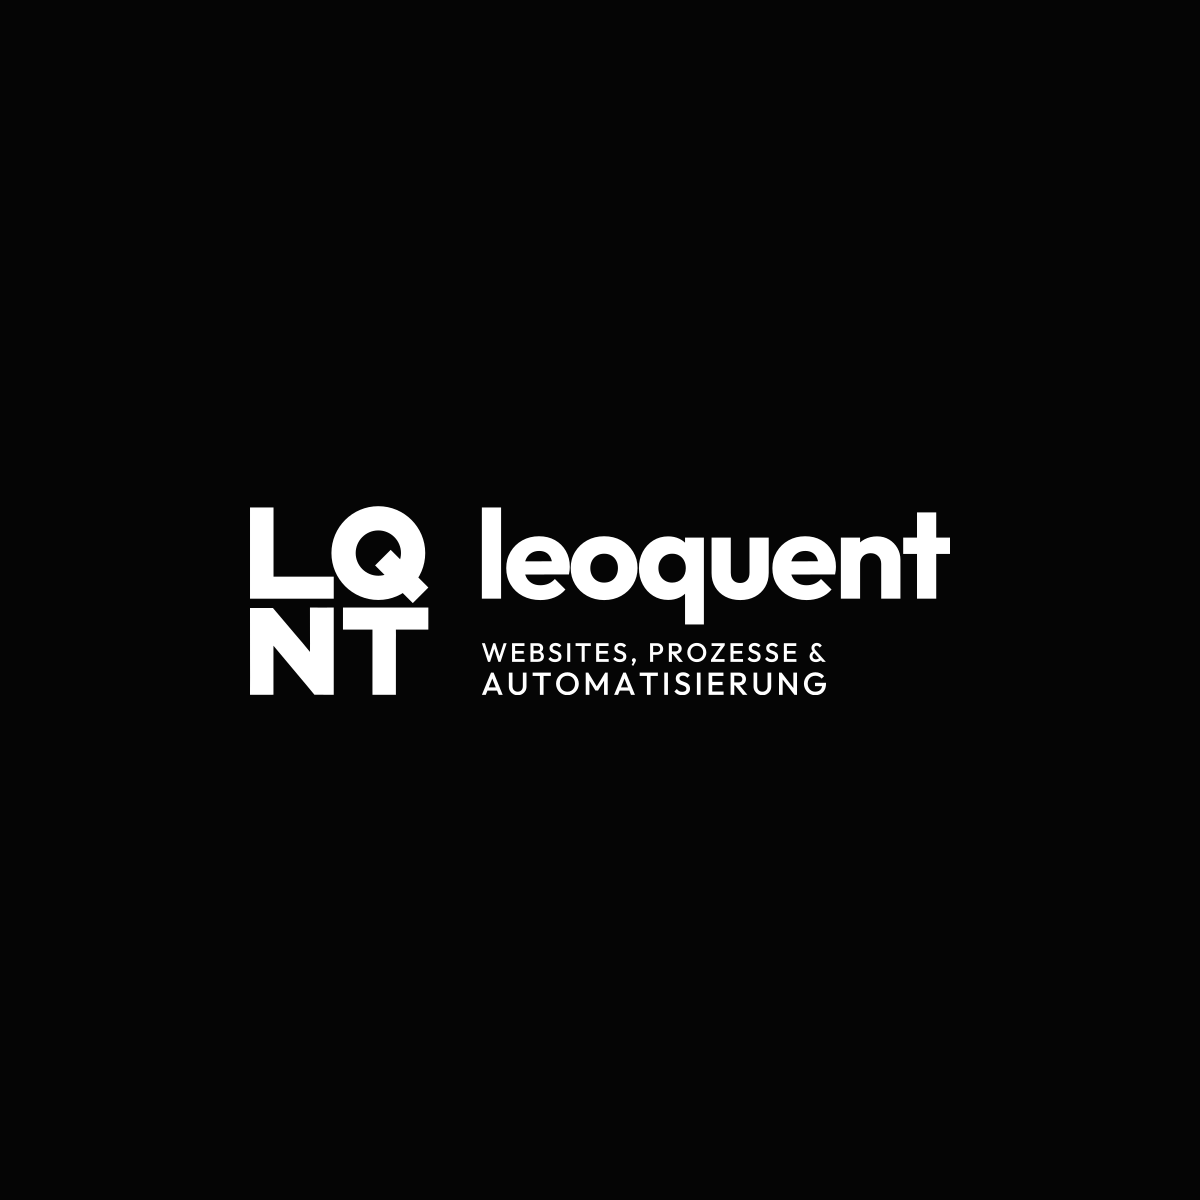
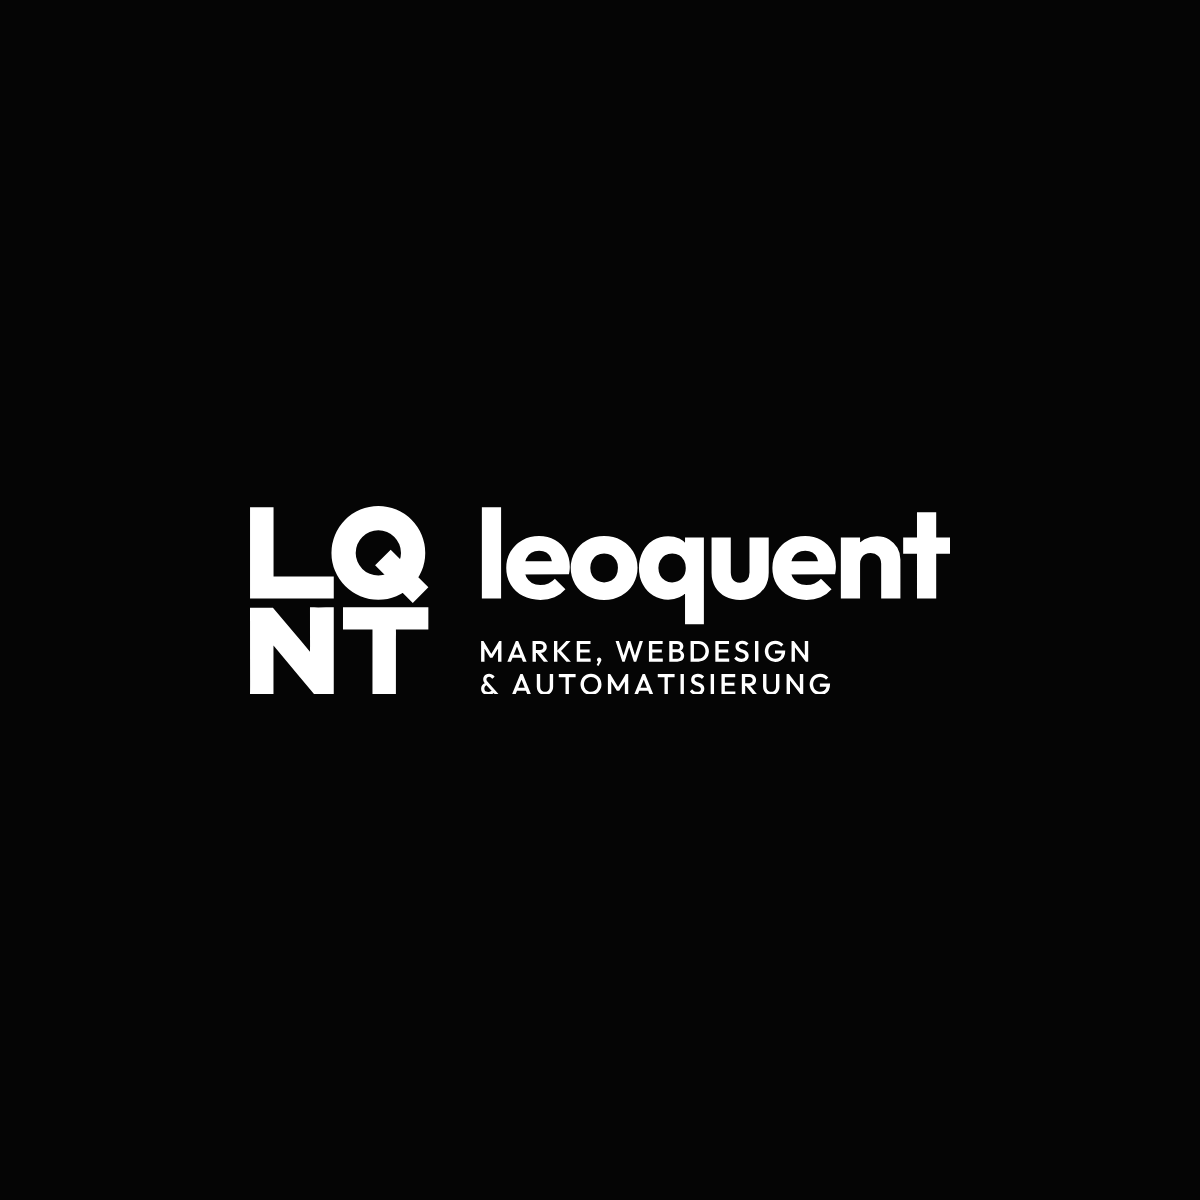
Align brand descriptor and gateway branding label

Changed region(s): [[0.4008, 0.5242, 0.7092, 0.5858]]

diff --git a/app/layout.tsx b/app/layout.tsx
@@ -13,13 +13,13 @@ const basePath = process.env.NEXT_PUBLIC_BASE_PATH || '';
 const ogImageLandscape = `${siteUrl}${basePath}/og-image-1200x630.png`;
 const ogImageSquare = `${siteUrl}${basePath}/og-image-1200x1200.png`;
 
-const title = 'leoquent | Webdesign, Prozesse & Automatisierung';
+const title = 'leoquent | Marke, Webdesign & Automatisierung';
 
 export const metadata: Metadata = {
   metadataBase: new URL(siteUrl),
   title,
     description:
-      'Webdesign mit eigenen Texten und passende Automatisierung: Leonid Ryazanskiy macht Ihr Angebot verständlich und vereinfacht Ihre Abläufe.',
+      'Markenauftritte, Webdesign mit eigenen Texten und passende Automatisierung: Leonid Ryazanskiy macht Ihr Angebot verständlich und vereinfacht Ihre Abläufe.',
     applicationName: 'leoquent',
 
     openGraph: {
@@ -28,27 +28,27 @@ export const metadata: Metadata = {
       siteName: 'leoquent',
       title,
       description:
-        'Webdesign mit eigenen Texten und passende Automatisierung: Leonid Ryazanskiy macht Ihr Angebot verständlich und vereinfacht Ihre Abläufe.',
+        'Markenauftritte, Webdesign mit eigenen Texten und passende Automatisierung: Leonid Ryazanskiy macht Ihr Angebot verständlich und vereinfacht Ihre Abläufe.',
       url: `${siteUrl}${basePath}/`,
     images: [
       {
         url: ogImageLandscape,
         width: 1200,
         height: 630,
-        alt: 'leoquent — Webdesign, Prozesse & Automatisierung',
+        alt: 'leoquent — Marke, Webdesign & Automatisierung',
       },
       {
         url: ogImageSquare,
         width: 1200,
         height: 1200,
-        alt: 'leoquent — Webdesign, Prozesse & Automatisierung',
+        alt: 'leoquent — Marke, Webdesign & Automatisierung',
       },
     ],
   },
   twitter: {
     card: 'summary_large_image',
     title,
-    description: 'Webdesign mit eigenen Texten und passende Automatisierung: Leonid Ryazanskiy macht Ihr Angebot verständlich und vereinfacht Ihre Abläufe.',
+    description: 'Markenauftritte, Webdesign mit eigenen Texten und passende Automatisierung: Leonid Ryazanskiy macht Ihr Angebot verständlich und vereinfacht Ihre Abläufe.',
     images: [ogImageLandscape],
   },
   robots: { index: true, follow: true },

diff --git a/components/Gateway.tsx b/components/Gateway.tsx
@@ -8,7 +8,7 @@ import DirectionArrow from "./DirectionArrow";
 gsap.registerPlugin(useGSAP);
 const base = process.env.NEXT_PUBLIC_BASE_PATH || "";
 const options = [
- {id:"webdesign", label:"Webdesign", title:<>Sichtbar <br/>werden.</>, copy:"Ein Auftritt, der zeigt, was Sie können. Mit klaren Texten, eigenem Charakter und auf Wunsch auch Logo und Markenauftritt.", tags:"Konzept · Text · Marke · Webdesign"},
+ {id:"webdesign", label:"Webdesign & Branding", title:<>Sichtbar <br/>werden.</>, copy:"Ein Auftritt, der zeigt, was Sie können. Mit klaren Texten, eigenem Charakter und auf Wunsch auch Logo und Markenauftritt.", tags:"Konzept · Text · Marke · Webdesign"},
  {id:"prozesse", label:"Prozesse & Automatisierung", title:<>Zeit <br/>gewinnen.</>, copy:"Weniger Handarbeit im Arbeitsalltag. Mit verbundenen Werkzeugen, individuellen Anwendungen und sinnvoll eingesetzter KI.", tags:"Analyse · Software · Automatisierung · KI"}
 ];
 function Illustration({kind}:{kind:string}) {
@@ -39,7 +39,7 @@ export default function Gateway({mode}:{mode:"filmisch"|"interaktiv"}) {
  return <div ref={root} className={`${s.gateway} ${mode==="filmisch"?s.film:s.interactive}`} data-active={active||""}>
   <header className={s.header} data-reveal>
    <a href={`${base}/`} className={s.brand} aria-label="leoquent – Startseite"><LqntMark className={s.mark}/><span>leoquent</span></a>
-   <span className={s.descriptor}>Webdesign, Prozesse &<br/>Automatisierung</span>
+   <span className={s.descriptor}>Marke, Webdesign<br/>&amp; Automatisierung</span>
   </header>
   <main className={s.main}>
    <div className={s.intro} data-reveal>

diff --git a/email-signatur.html b/email-signatur.html
@@ -11,7 +11,7 @@
     <td style="width:255px;vertical-align:middle;padding:0 0 0 18px;border-left:3px solid #ccff00;color:#050505;">
       <div style="font-size:17px;line-height:22px;font-weight:bold;">Leonid Ryazanskiy</div>
       <div style="margin-top:2px;font-size:13px;line-height:19px;color:#555555;">Inhaber · <a href="https://lqnt.de" style="color:#555555;text-decoration:none;">lqnt.de</a></div>
-      <div style="margin-top:6px;font-size:13px;line-height:19px;color:#050505;">Webdesign, Prozesse &amp; Automatisierung</div>
+      <div style="margin-top:6px;font-size:13px;line-height:19px;color:#050505;white-space:nowrap;">Marke, Webdesign<br>&amp; Automatisierung</div>
       <div style="margin-top:8px;font-size:13px;line-height:20px;">
         <a href="tel:+4917647177623" style="color:#050505;text-decoration:none;">+49 176 47 177 623</a><br>
         <a href="mailto:hi@lqnt.de" style="color:#050505;text-decoration:none;">hi@lqnt.de</a>

diff --git a/components/gateway.module.css b/components/gateway.module.css
@@ -3,7 +3,7 @@
 .gateway a:focus-visible,.gateway button:focus-visible{outline:2px solid var(--accent);outline-offset:7px}
 .header{height:112px;display:flex;align-items:center;justify-content:space-between;position:relative;z-index:2}
 .brand{display:flex;align-items:center;gap:8px;font-size:29px;font-weight:700;letter-spacing:-.035em}.mark{width:55px;height:55px;color:var(--accent)}
-.descriptor{font-size:11px;line-height:1.55;text-transform:uppercase;letter-spacing:.13em;color:#aaa}
+.descriptor{font-size:11px;line-height:1.55;text-transform:uppercase;letter-spacing:.13em;color:#aaa;white-space:nowrap;flex-shrink:0}
 .main{max-width:1600px;margin:auto}.intro{padding:clamp(25px,5vh,65px) 0 55px}
 .eyebrow{font-size:12px;letter-spacing:.1em;margin:0 0 25px;color:#aaa}
 .intro h1{font-size:clamp(48px,6.7vw,108px);line-height:.98;letter-spacing:-.055em;font-weight:600;margin:0}.intro h1 span{color:#95958d}

diff --git a/lib/seo.tsx b/lib/seo.tsx
@@ -7,7 +7,7 @@ export const absoluteUrl = (path: string) => `${siteUrl}${basePath}${path}`;
 export function pageMetadata(title: string, description: string, path: string): Metadata {
   return {
     title, description, alternates: { canonical: absoluteUrl(path) },
-    openGraph: { title, description, url: absoluteUrl(path), type: "website", locale: "de_DE", siteName: "leoquent", images: [{ url: absoluteUrl("/og-image-1200x630.png"), width: 1200, height: 630, alt: "leoquent – Webdesign, Prozesse und Automatisierung" }] },
+    openGraph: { title, description, url: absoluteUrl(path), type: "website", locale: "de_DE", siteName: "leoquent", images: [{ url: absoluteUrl("/og-image-1200x630.png"), width: 1200, height: 630, alt: "leoquent – Marke, Webdesign & Automatisierung" }] },
     twitter: { card: "summary_large_image", title, description, images: [absoluteUrl("/og-image-1200x630.png")] },
   };
 }

diff --git a/app/page.tsx b/app/page.tsx
@@ -1,5 +1,5 @@
 import { pageMetadata } from "@/lib/seo";
-export const metadata = pageMetadata("leoquent | Webdesign, Prozesse & Automatisierung", "Sichtbar werden. Zeit gewinnen. Websites mit Konzept und eigenen Texten sowie passende Automatisierung von Leonid Ryazanskiy.", "/");
+export const metadata = pageMetadata("leoquent | Marke, Webdesign & Automatisierung", "Sichtbar werden. Zeit gewinnen. Markenauftritte und Websites mit Konzept und eigenen Texten sowie passende Automatisierung von Leonid Ryazanskiy.", "/");
 import Gateway from '@/components/Gateway';
 
 export default function HomePage() {

diff --git a/scripts/update-brand-descriptor.py b/scripts/update-brand-descriptor.py
@@ -1,0 +1,52 @@
+"""Update only descriptor paths; keep the approved symbol and wordmark unchanged.
+
+Run with Python + fonttools[woff], passing the local Outfit variable font:
+    python scripts/update-brand-descriptor.py path/to/Outfit.woff2
+"""
+from pathlib import Path
+import re
+import sys
+from fontTools.ttLib import TTFont
+from fontTools.varLib.instancer import instantiateVariableFont
+from fontTools.pens.svgPathPen import SVGPathPen
+from fontTools.pens.transformPen import TransformPen
+from fontTools.pens.boundsPen import BoundsPen
+
+root = Path(__file__).resolve().parents[1]
+font = TTFont(sys.argv[1])
+if "fvar" in font:
+    font = instantiateVariableFont(font, {"wght": 500}, inplace=False)
+glyphs = font.getGlyphSet()
+cmap = font.getBestCmap()
+tracking = font["head"].unitsPerEm * .10
+
+def outline(text):
+    pen = SVGPathPen(glyphs)
+    bounds = BoundsPen(glyphs)
+    x = 0
+    for char in text:
+        name = cmap[ord(char)]
+        transform = (1, 0, 0, -1, x, 0)
+        glyphs[name].draw(TransformPen(pen, transform))
+        glyphs[name].draw(TransformPen(bounds, transform))
+        x += font["hmtx"][name][0] + tracking
+    return pen.getCommands(), bounds.bounds
+
+lines = [outline("MARKE, WEBDESIGN"), outline("& AUTOMATISIERUNG")]
+scale = 1900 / max(bounds[2] - bounds[0] for _, bounds in lines)
+for path in sorted((root / "brand/marks").glob("leoquent-lockup-h-descriptor*.svg")):
+    original = path.read_text(encoding="utf-8")
+    source = original
+    for i, (commands, bounds) in enumerate(lines, 1):
+        x = 1258.14 - bounds[0] * scale
+        y = 847.43 if i == 1 else 1027.43
+        group = f'<g transform="translate({x:.2f} {y:.2f}) scale({scale:.5f})"><path id="desc{i}" d="{commands}"/></g>'
+        source, count = re.subn(rf'<g\b[^>]*>\s*<path\b(?=[^>]*\bid="desc{i}")[\s\S]*?</g>', lambda _: group, source)
+        assert count == 1, f"Missing descriptor group {i} in {path.name}"
+    source = re.sub(r'aria-label="[^"]*"', 'aria-label="leoquent – Marke, Webdesign &amp; Automatisierung"', source, count=1)
+    for identifier in ["L", "Q", "N", "T", "wordmark"]:
+        pattern = rf'<path\b(?=[^>]*\bid="{identifier}")[^>]*/>'
+        assert re.search(pattern, original).group() == re.search(pattern, source).group()
+    path.write_text(source, encoding="utf-8")
+    print(f"Updated {path.name}")
+print("Descriptor line widths:", [round((b[2] - b[0]) * scale, 2) for _, b in lines])

diff --git a/PLAN.md b/PLAN.md
@@ -21,7 +21,7 @@ und sind jetzt geklärt:
 | **Referenz** | **RümpelRoss** (Entrümpelung, Stuttgart) darf gezeigt werden, alte Seite ausdrücklich auch. **Noch nicht live** — Stand unter `leoquent.github.io/ruempelross/`, Livegang in den nächsten Wochen. |
 | **Preise** | **Webdesign: sichtbar**, Einstieg **ab 1.490 €**. Übrige Leistungen individuell. Potenzialanalyse bleibt kostenlos. **Betreuung Basis ist optional (keine Pflicht).** |
 | **Serverstandort** | **Deutschland** — bestätigt. Kein Drittland-Hinweis nötig, „gehostet in Deutschland" ist gedeckt. |
-| **Deskriptor** | `WEBDESIGN, PROZESSE &` / `AUTOMATISIERUNG` — „Webdesign" statt „Websites". |
+| **Deskriptor** | `MARKE, WEBDESIGN` / `& AUTOMATISIERUNG` — von Leo am 30.09.2026 geändert. |
 | **rümpelOS** | Eigenes Produkt (`D:\Coding\ruempelross os\ruempelOS`), Phase 0 — Klick-Prototyp auf Leos VPS, zum Testen und Entwickeln. **Kommt vorerst nicht auf die Website**, auch die übrigen Produkte nicht. Später eigene Domain und eigener Auftritt, danach als Portfolio-Eintrag auf `lqnt.de`. Das alte Geschäft (KI, Automatisierung) wird weiterhin verkauft. |
 | **Calendly** | Leo richtet einen eigenen Account später selbst ein. Der Fremdlink muss trotzdem sofort raus. |
 | **Web3Forms** | Formular „lqnt", Website-URL `https://lqnt.de` (ohne Pfad — das Quiz ist ein Overlay auf `/`, es gibt keine `/quiz`-Route). Zustellung an `hi@lqnt.de`. Domain-Beschränkung bis zum Umzug auf `lqnt.de` ausgeschaltet lassen. |
@@ -146,7 +146,7 @@ Grund: solange sie im Wurzelverzeichnis liegen, greift jede künftige KI-Sitzung
 
 | Sektion | Neu |
 |---|---|
-| **Hero** | Websites zuerst. Konkretes Versprechen statt Abstraktion. Der Deskriptor der Marke gibt die Reihenfolge vor: *Websites, Prozesse & Automatisierung* |
+| **Hero** | Konkretes Versprechen. Der am 30.09.2026 freigegebene Deskriptor lautet *Marke, Webdesign & Automatisierung*. Die Startseite behält zwei Wege. |
 | **Ticker** | GENERATIVE UI / NEURAL NETWORKS ersetzen oder Sektion streichen. Der Ticker spricht Entwickler an, nicht Handwerksbetriebe |
 | **Status Quo** | Typewriter-Painpoints auf echte Kundenprobleme umschreiben (Anfragen gehen unter, Website von 2014, keine Termine). **Mission/Vision-Block bleibt.** „Das autonome Betriebssystem für den Mittelstand" ist keine Behauptung mehr, sondern beschreibt, woran Leo baut — Prinzip P3 des rümpelOS-Konzepts sagt wörtlich, aus dem einen OS werde später „X OS" für weitere Branchen. Der Block wird aber auf die neue Reihenfolge umgeschrieben: Website zuerst, Prozesse und Automatisierung danach, das Betriebssystem als Fluchtpunkt — **ohne das Produkt zu nennen oder zu bewerben** |
 | **Solutions** | Die vier KI-Kacheln durch die drei Angebote aus `NEUAUSRICHTUNG_2026.md` 4.4 ersetzen: **Der Auftritt** (Website) · **Die Nachtschicht** (ein automatisierter Prozess) · **Rückendeckung** (Betreuung). Reihenfolge = Kaufreihenfolge |

diff --git a/REVIEW_2026-09-30.md b/REVIEW_2026-09-30.md
@@ -57,9 +57,9 @@ Ein möglicher interner Preisrahmen zur späteren Kalkulation: Betrieb 69 €, B
 
 ## 3. Claim und persönliche Differenzierung
 
-Ich würde den Deskriptor im Logo zunächst **„Webdesign, Prozesse & Automatisierung“** behalten: Er benennt die beiden Wege eindeutig. Branding ist im Leistungsangebot und im Einstieg sichtbar; der Deskriptor muss nicht jedes Einzelangebot aufzählen.
+**Entschieden von Leo am 30.09.2026:** Der Deskriptor lautet überall **„Marke, Webdesign & Automatisierung“**. Dies ersetzt die vorherige Empfehlung, den alten Deskriptor zu behalten. Zweizeilig wird vor dem `&` umgebrochen: **„Marke, Webdesign“ / „& Automatisierung“**. In Outfit sind die Zeilen damit annähernd gleich lang. Die linke Auswahl auf der Startseite heißt **„Webdesign & Branding“**. Die Startseite behält ihre zwei Wege.
 
-Falls Branding gleichrangig positioniert werden soll, ist **„Marke, Webdesign & Automatisierung“** die klarste Alternative. „Web, Design, Prozesse & Automatisierung“ zerlegt Webdesign künstlich und wird länger. „Web, Brand, Prozesse“ ist kurz, für die Zielgruppe aber weniger unmittelbar verständlich.
+Umgesetzt in Website, Metadaten, HTML-Signatur, vier SVG-Logo-Vorlagen und beiden Linkvorschaubildern. Bildmarke und Wortmarke unverändert. Produktionsbuild erfolgreich; Kopfbereich auf 320, 390, 600, 924 und 1440 Pixeln ohne Überlappung oder seitlichen Überlauf geprüft. Nachweis: `Website-Pruefung/descriptor-check.json` und Bildschirmaufnahmen.
 
 Als ergänzende Botschaft eignet sich: **„Klar in der Botschaft. Eigenständig im Auftritt.“** Das verbindet Copywriting und Branding. Die persönliche Differenzierung liegt in der Werbeerfahrung plus eigener Umsetzung: Kunden müssen weder Website-Texte noch ein fertiges Kreativkonzept liefern.
 

diff --git a/brand/DESIGN_LEITLINIE.md b/brand/DESIGN_LEITLINIE.md
@@ -22,7 +22,7 @@ Leo hat **„Interaktiv“ ausdrücklich und begeistert als Basis gewählt**. Re
 | Ausrichtung | Sektionsüberschriften und Einleitungen links; das gilt ausdrücklich auch für den Einstieg der Leistungen. |
 | Schreibweise | Sentence case mit regulärer deutscher Groß- und Kleinschreibung für Überschriften, Labels und Buttons. |
 
-**Marke — aktueller Einsatz und weiterhin Empfehlung, keine neue Freigabe:** Die Seite verwendet **Leoquent** als ausgeschriebenen Namen, **LQNT** als Bildzeichen und `lqnt.de` als Domain. Diese Aufteilung bleibt die Empfehlung; Leo erwägt die Markenfrage noch. Die bisherige Umsetzung und die Regeln in [LOGO.md](LOGO.md) sind der dokumentierte Ausgangspunkt: Header mit Bildmarke und `leoquent` als HTML-Text, vorhandene SVG-Master, bestehende Wortmarke und Deskriptor. Aus diesem Abgleich folgt keine neue Namensentscheidung; die freigegebene Ausnahme für die Ring-und-Strich→Q-Illustration ist unten dokumentiert.
+**Marke — Freigabe vom 30.09.2026:** Die Seite verwendet **leoquent** durchgehend klein als ausgeschriebenen Namen, **LQNT** als Bildzeichen und `lqnt.de` als Domain. Der Deskriptor lautet **„Marke, Webdesign & Automatisierung“**, zweizeilig mit Umbruch vor `&`. Die linke Auswahl auf der Startseite heißt **„Webdesign & Branding“**. Header mit Bildmarke und `leoquent` als HTML-Text; SVG-Master mit aktualisierten Deskriptor-Pfaden. Die bestehende Bild- und Wortmarke bleibt erhalten. Weitere Regeln stehen in [LOGO.md](LOGO.md); die freigegebene Ausnahme für die Ring-und-Strich→Q-Illustration ist unten dokumentiert.
 
 ## Zeichnungen und Bewegung
 

diff --git a/brand/LOGO.md b/brand/LOGO.md
@@ -11,9 +11,10 @@ Outfit 700 in Pfade gewandelt und damit schriftunabhängig.
 
 **Wortmarke** — `leoquent`, Outfit 700, durchgehend klein, Laufweite `-0.035em`. 3726 × 931.
 
-**Deskriptor** — `WEBSITES, PROZESSE &` / `AUTOMATISIERUNG`, Outfit 500, Laufweite `+0.10em`,
-zweizeilig, linksbündig unter der Wortmarke. (Bestätigt 14.08.2026. Die frühere Fassung
-`AUTOMATISIERUNG & PROZESSOPTIMIERUNG` ist überholt — Einstiegsprodukt zuerst, Upsell danach.)
+**Deskriptor** — `MARKE, WEBDESIGN` / `& AUTOMATISIERUNG`, Outfit 500, Laufweite `+0.10em`,
+zweizeilig, linksbündig unter der Wortmarke. Von Leo am 30.09.2026 für alle Anwendungen
+freigegeben. Der Umbruch vor `&` gleicht die Zeilenlängen an. Er ersetzt die früheren
+Fassungen mit „Websites“ bzw. „Webdesign, Prozesse“. Bildmarke und Wortmarke bleiben erhalten.
 
 ---
 
@@ -48,6 +49,11 @@ Pixeln korrigierbar ohne neue Datei.
 | `leoquent-lockup-v*.svg` | vertikal gestapelt |
 | `favicon.svg` | Lime auf Vanta-Kachel, Eckenradius 22 % |
 | `favicon-mono*.svg` | enger Beschnitt ohne Kachel |
+
+Die Deskriptor-Pfade lassen sich mit `scripts/update-brand-descriptor.py` und der lokalen
+Outfit-Variablenschrift neu erzeugen (Python, fonttools mit WOFF-Unterstützung). Das Skript
+prüft, dass Bildmarke und Wortmarke unverändert bleiben. Linkvorschaubilder werden aus
+dem weißen SVG-Master auf Vanta gerendert, mit 700 px Logobreite auf 1200 px Bildbreite.
 
 ---
 

diff --git a/copy/00-regeln.md b/copy/00-regeln.md
@@ -42,7 +42,7 @@ Projekte beim Doppelten landen, ist er zu niedrig und gehört angehoben.
 
 ## Meta
 
-**Startseite** — Title: `Leoquent | Webdesign, Prozesse & Automatisierung`
+**Startseite** — Title: `leoquent | Marke, Webdesign & Automatisierung` (Freigabe 30.09.2026)
 **Webdesign** — Title: `Webdesign für Handwerk, Praxen & Immobilien | Leoquent`
 Description: *Websites mit Festpreis ab 1.900 € — Texte vom preisgekrönten Werbetexter
 inklusive. Kein Warten auf eigene Texte.*
@@ -59,4 +59,4 @@ machen" · „autonome KI-Mitarbeiter" · „garantierter ROI" · „Performance
 | Screenshots alt und neu, Live-Link | Referenz |
 | Calendly-Konto | Kontakt, Funnel |
 | AVV bei Hostinger | Datenschutz |
-| Deskriptor im Logo neu bauen | `leoquent-lockup-h-descriptor.svg` — der Text steckt als Pfade drin |
+| Deskriptor im Logo | Erledigt am 30.09.2026: „Marke, Webdesign“ / „& Automatisierung“, als Pfade in `leoquent-lockup-h-descriptor*.svg`. |
